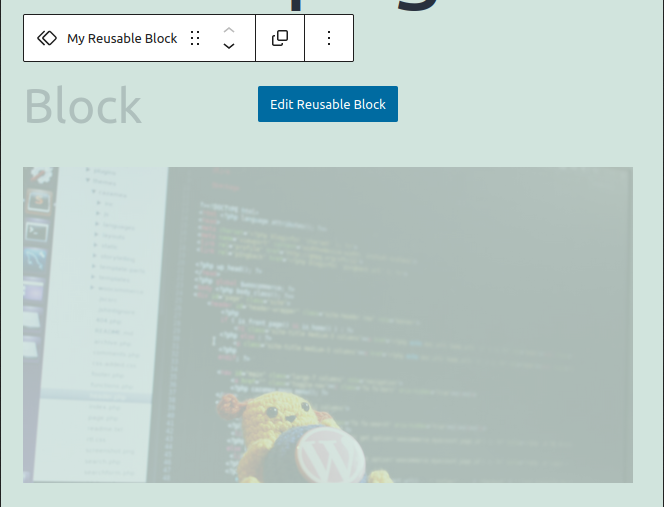
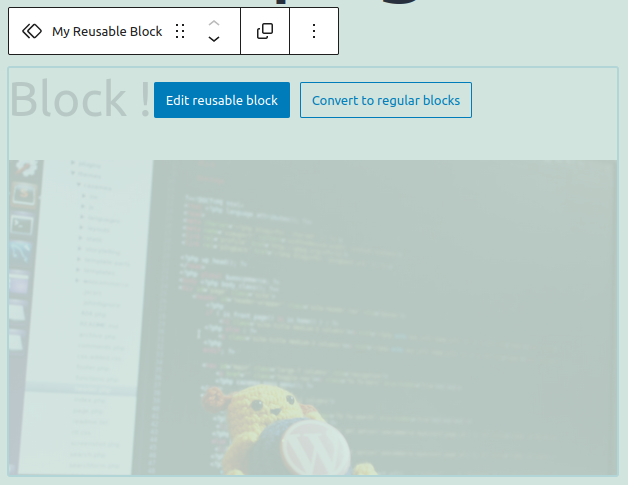
Add button to convert reusable block to regular blocks

diff --git a/build/index.js b/build/index.js
@@ -11,7 +11,9 @@
 __webpack_require__.r(__webpack_exports__);
 /* harmony import */ var _wordpress_element__WEBPACK_IMPORTED_MODULE_0__ = __webpack_require__(/*! @wordpress/element */ "@wordpress/element");
 /* harmony import */ var _wordpress_element__WEBPACK_IMPORTED_MODULE_0___default = /*#__PURE__*/__webpack_require__.n(_wordpress_element__WEBPACK_IMPORTED_MODULE_0__);
-/* harmony import */ var _style_scss__WEBPACK_IMPORTED_MODULE_1__ = __webpack_require__(/*! ./style.scss */ "./src/style.scss");
+/* harmony import */ var _wordpress_reusable_blocks__WEBPACK_IMPORTED_MODULE_1__ = __webpack_require__(/*! @wordpress/reusable-blocks */ "@wordpress/reusable-blocks");
+/* harmony import */ var _wordpress_reusable_blocks__WEBPACK_IMPORTED_MODULE_1___default = /*#__PURE__*/__webpack_require__.n(_wordpress_reusable_blocks__WEBPACK_IMPORTED_MODULE_1__);
+/* harmony import */ var _style_scss__WEBPACK_IMPORTED_MODULE_2__ = __webpack_require__(/*! ./style.scss */ "./src/style.scss");
 
 const {
   __
@@ -28,6 +30,10 @@ const {
 const {
   Button
 } = wp.components;
+const {
+  useDispatch
+} = wp.data;
+
 
 /**
  * Add custom HTML to reusable blocks.
@@ -36,10 +42,14 @@ const {
 const withLockedReusableBlocks = createHigherOrderComponent(BlockEdit => {
   return props => {
     const {
-      attributes
+      attributes,
+      clientId
     } = props;
 
     if (props.isSelected && isReusableBlock(props) && attributes.ref) {
+      const {
+        __experimentalConvertBlockToStatic: convertBlockToStatic
+      } = useDispatch(_wordpress_reusable_blocks__WEBPACK_IMPORTED_MODULE_1__.store);
       return (0,_wordpress_element__WEBPACK_IMPORTED_MODULE_0__.createElement)("div", {
         className: "wp-block wp-reusable-block-locked"
       }, (0,_wordpress_element__WEBPACK_IMPORTED_MODULE_0__.createElement)("div", {
@@ -53,7 +63,11 @@ const withLockedReusableBlocks = createHigherOrderComponent(BlockEdit => {
         }),
         target: "_blank",
         rel: "noopener noreferrer"
-      }, __('Edit Reusable Block', 'lock-reusable-blocks'))), (0,_wordpress_element__WEBPACK_IMPORTED_MODULE_0__.createElement)(BlockEdit, props));
+      }, __('Edit reusable block', 'lock-reusable-blocks')), (0,_wordpress_element__WEBPACK_IMPORTED_MODULE_0__.createElement)(Button, {
+        onClick: () => convertBlockToStatic(clientId),
+        variant: "secondary",
+        className: "wp-reusable-block-locked__convert-link"
+      }, __('Convert to regular blocks', 'lock-reusable-blocks'))), (0,_wordpress_element__WEBPACK_IMPORTED_MODULE_0__.createElement)(BlockEdit, props));
     } else {
       return (0,_wordpress_element__WEBPACK_IMPORTED_MODULE_0__.createElement)(BlockEdit, props);
     }
@@ -82,6 +96,16 @@ __webpack_require__.r(__webpack_exports__);
 /***/ (function(module) {
 
 module.exports = window["wp"]["element"];
+
+/***/ }),
+
+/***/ "@wordpress/reusable-blocks":
+/*!****************************************!*\
+  !*** external ["wp","reusableBlocks"] ***!
+  \****************************************/
+/***/ (function(module) {
+
+module.exports = window["wp"]["reusableBlocks"];
 
 /***/ })
 

diff --git a/src/index.js b/src/index.js
@@ -4,6 +4,8 @@ const { createHigherOrderComponent } = wp.compose;
 const { addQueryArgs } = wp.url;
 const { isReusableBlock } = wp.blocks; 
 const { Button } = wp.components;
+const { useDispatch } = wp.data;
+import { store as reusableBlocksStore } from '@wordpress/reusable-blocks';
 
 import './style.scss';
 
@@ -13,9 +15,14 @@ import './style.scss';
  const withLockedReusableBlocks = createHigherOrderComponent( ( BlockEdit ) => {
     return ( props ) => {
 
-        const { attributes } = props;
+        const { attributes, clientId } = props;
 
         if ( props.isSelected && isReusableBlock( props ) && attributes.ref ) {
+
+            const {
+                __experimentalConvertBlockToStatic: convertBlockToStatic,
+            } = useDispatch( reusableBlocksStore );
+
             return (
                 <div className="wp-block wp-reusable-block-locked">
                     <div className="wp-reusable-block-locked__wrapper">
@@ -29,7 +36,14 @@ import './style.scss';
                             target="_blank"
 						    rel="noopener noreferrer"
                         >
-                            { __( 'Edit Reusable Block', 'lock-reusable-blocks' ) }
+                            { __( 'Edit reusable block', 'lock-reusable-blocks' ) }
+                        </Button>
+                        <Button
+                            onClick={ () => convertBlockToStatic( clientId ) }
+                            variant="secondary"
+                            className="wp-reusable-block-locked__convert-link"
+                        >
+                            { __( 'Convert to regular blocks', 'lock-reusable-blocks' ) }
                         </Button>
                     </div>
                     <BlockEdit { ...props } />

diff --git a/build/style-index.css b/build/style-index.css
@@ -21,13 +21,16 @@
   top: 0;
   cursor: not-allowed;
 }
-.wp-reusable-block-locked__edit-link {
+.wp-reusable-block-locked__edit-link, .wp-reusable-block-locked__convert-link {
   z-index: 1;
   position: relative;
+  margin: 5px;
+}
+.wp-reusable-block-locked__edit-link {
   color: white !important;
 }
 .wp-reusable-block-locked > .wp-block {
-  opacity: 0.2;
+  opacity: 0.15;
 }
 .wp-reusable-block-locked .block-editor-block-list__layout > * {
   pointer-events: none;

diff --git a/src/style.scss b/src/style.scss
@@ -19,14 +19,18 @@
         }
     }
 
-    &__edit-link {
+    &__edit-link, &__convert-link {
         z-index: 1;
         position: relative;
+        margin: 5px;
+    }
+
+    &__edit-link {
         color: white !important;
     }
 
     > .wp-block {
-        opacity: .2;
+        opacity: .15;
     }
 
 	.block-editor-block-list__layout > * {

diff --git a/lock-reusable-blocks.php b/lock-reusable-blocks.php
@@ -4,7 +4,7 @@
  * Description:       Lock Reusable Blocks in the editor to avoid unintentional global changes.
  * Requires at least: 5.8
  * Requires PHP:      7.0
- * Version:           0.1.0
+ * Version:           0.2.0
  * Author:            Marie Comet
  * License:           GPL-2.0-or-later
  * License URI:       https://www.gnu.org/licenses/gpl-2.0.html
@@ -15,7 +15,7 @@
 if( ! defined( 'ABSPATH' ) ) exit; // Exit if accessed directly
 
 if ( ! defined( 'LRB_VERSION' ) ) {
-    define( 'LRB_VERSION', '0.1.0' );
+    define( 'LRB_VERSION', '0.2.0' );
 }
 if ( ! defined( 'LRB_PATH' ) ) {
     define( 'LRB_PATH', plugin_dir_path( __FILE__ ) );

diff --git a/build/index.asset.php b/build/index.asset.php
@@ -1,1 +1,1 @@
-<?php return array('dependencies' => array('wp-element'), 'version' => '49a02594e145283b417b464dcc85675d');
+<?php return array('dependencies' => array('wp-element', 'wp-reusable-blocks'), 'version' => '7362f7031f87539bff2120160015e209');

diff --git a/readme.md b/readme.md
@@ -4,6 +4,6 @@
 
 This WordPress plugin lock Reusable Blocks in the editor to avoid unintentional global changes.
 
-Editing reusable blocks in posts is locked. A link is added in the block to access directly to the edition of the reusable block.
+Editing reusable blocks in posts is locked. A link is added in the block to access directly to the edition of the reusable block or to convert it to normal blocks.
 
 ![image](https://user-images.githubusercontent.com/7976501/159056876-cb14a973-7ebc-44ec-8656-66d08d5ab644.png)
